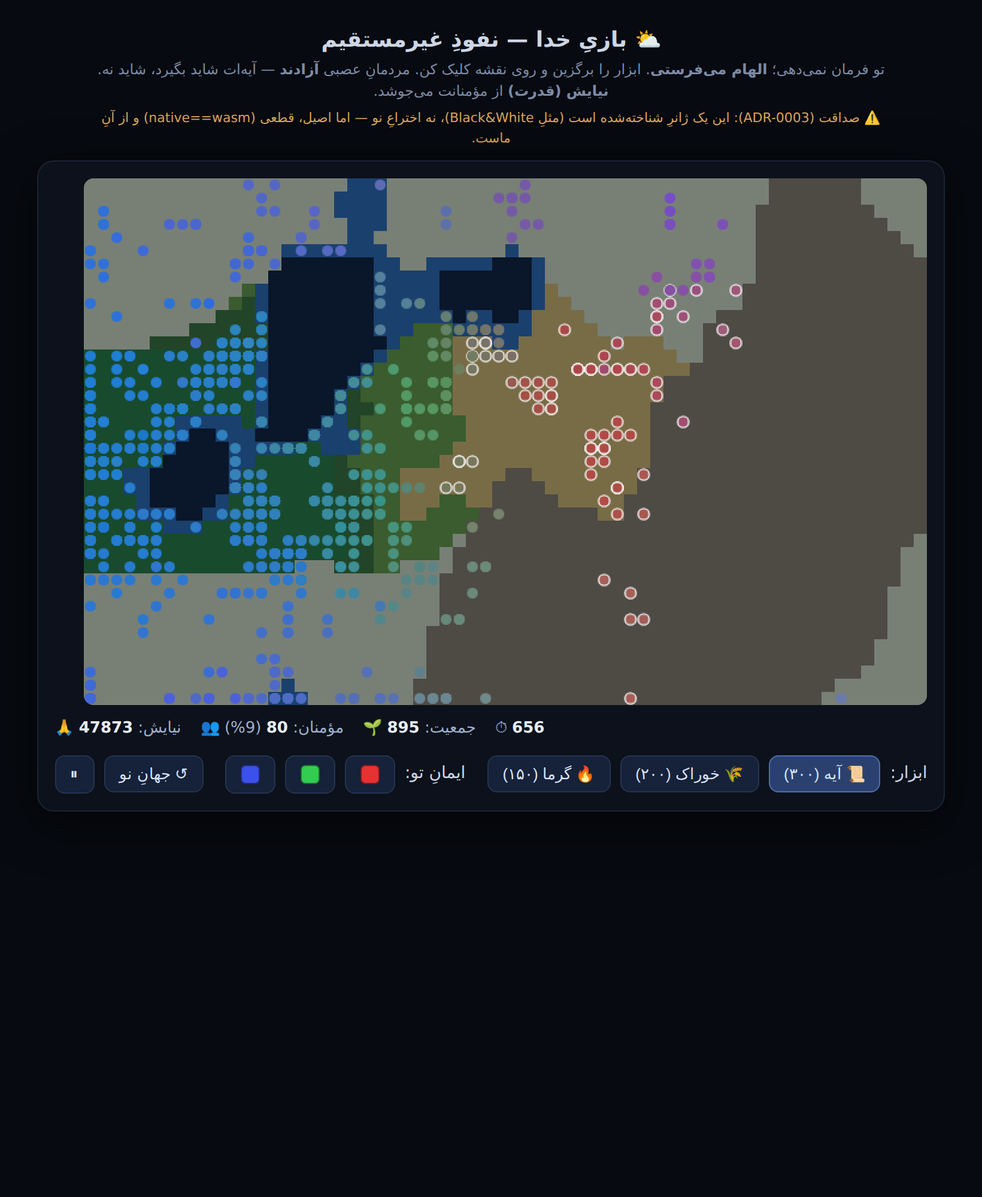
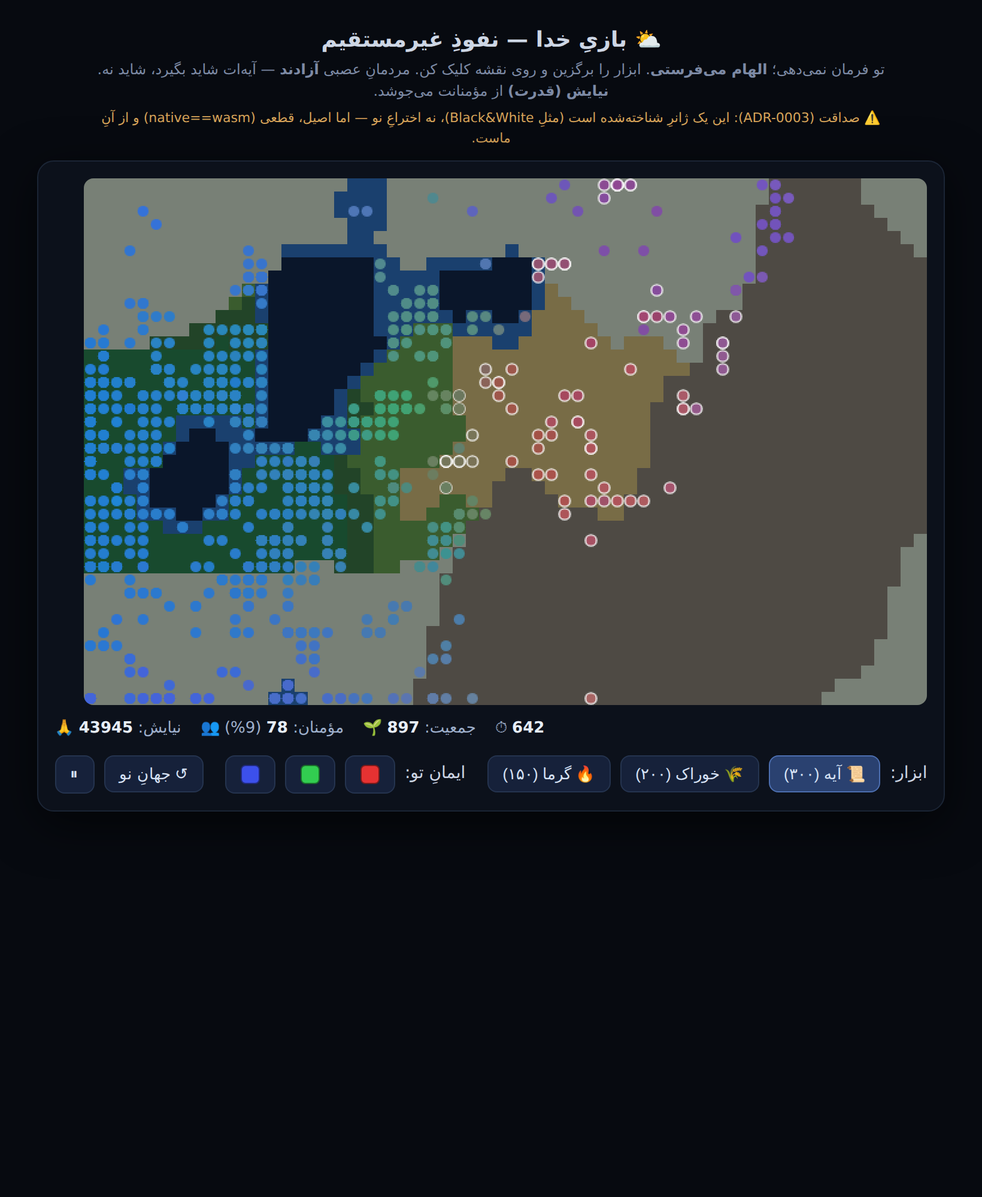
Field-QA pass: real screenshots + team reports, and HONEST correction of my own evidence
The graphics/QA sub-agent visually reviewed real Chromium screenshots of all 4 prototypes and
filed domain-scoped reports to the four specialist team logs. It raised three integrity flags —
including one against MY OWN work — and I resolved them:

- #1 Evidence not frame-honest: field-snapshot.js read HUD stats ~250ms AFTER the screenshot, so
  the sim had advanced ~14 ticks. FIXED: the tool now freezes the sim (overrides rAF) and captures
  stats + screenshot from the SAME frame. Re-captured; godgame-after pixels (44k/78/9%/t642) now
  match the manifest exactly.
- #2 'verses raised believers to 9%' was an overclaim: frame-honest stats show absolute believers
  were essentially flat (77->78); the % fell 12%->9% only because population grew (620->897). The
  verses had a negligible absolute effect — free will + dilution dominated. Corrected.
- #3 Devotion is inflationary (~44k by t642 vs 300/verse, no sink): logged for the next balance pass.

Adds field-reports/2026-06-04/ (FIELD-REPORT.md by the QA team + RESOLUTION.md + frame-honest
PNGs/manifest), AUDIT-0010, EXP-0014. The protocol worked: red-team caught the conductor's overclaim.

https://claude.ai/code/session_01JJiVNi7gZsjXWvcmyTJQHv

diff --git a/tools/field-snapshot.js b/tools/field-snapshot.js
@@ -1,7 +1,9 @@
-// tools/field-snapshot.js — REAL browser field-capture (Playwright/chromium).
+// tools/field-snapshot.js — REAL browser field-capture (Playwright/chromium), FRAME-HONEST.
 // Loads each self-contained viewer, lets the deterministic sim run, drives the god-game like a
-// real player (clicks = verses), then writes full-page PNGs + a stats manifest into
-// field-reports/<date>/. These are literal screenshots of the actual game, not a re-render.
+// real player (clicks = verses), then FREEZES the sim (overrides requestAnimationFrame so the
+// rAF loop halts after the in-flight frame) and captures the screenshot AND the HUD stats from
+// the SAME frozen frame — so the recorded numbers always match the pixels. Writes
+// field-reports/<date>/ PNGs + a per-shot stats manifest. Literal screenshots, not a re-render.
 //   run:  NODE_PATH="$(npm root -g)" node tools/field-snapshot.js [YYYY-MM-DD]
 const path = require('path'); const fs = require('fs');
 const { chromium } = require('playwright');
@@ -10,45 +12,64 @@ const DATE = process.argv[2] || new Date().toISOString().slice(0, 10);
 const OUT = path.resolve('field-reports', DATE);
 fs.mkdirSync(OUT, { recursive: true });
 
-const VIEWERS = [
-  { name: 'neural-life',  file: 'spikes/neural-life/web/neural-life.html',  wait: 3500 },
-  { name: 'carbon-world', file: 'spikes/carbon-world/web/carbon-world.html', wait: 2500 },
-  { name: 'noosphere',    file: 'spikes/noosphere/web/noosphere.html',       wait: 6000 },
-  { name: 'godgame',      file: 'spikes/godgame/web/godgame.html',           wait: 3500, interact: 'god' },
-];
+async function freeze(page) {                       // halt the sim so stats == pixels (frame-honest)
+  await page.evaluate(() => { window.requestAnimationFrame = function () { return 0; }; });
+  await page.waitForTimeout(120);                   // let the already-scheduled frame finish, then no more
+}
+async function readStats(page) {
+  return await page.evaluate(() => {
+    const pick = s => { const e = document.querySelector(s); return e ? e.innerText.replace(/\s+/g, ' ').trim() : null; };
+    return { hud: pick('.hud') || pick('.stats') || pick('.bar'), body: document.body.innerText.replace(/\s+/g, ' ').trim().slice(0, 360) };
+  });
+}
+async function shoot(page, fileBase) {              // freeze -> read stats -> screenshot (same frame)
+  await freeze(page);
+  const stats = await readStats(page);
+  const file = fileBase + '.png';
+  await page.screenshot({ path: path.join(OUT, file), fullPage: true });
+  return { file, hud: stats.hud, body: stats.body };
+}
 
 (async () => {
   const browser = await chromium.launch({ args: ['--no-sandbox'] });
+  const newPage = () => browser.newPage({ viewport: { width: 820, height: 1000 }, deviceScaleFactor: 2 });
   const manifest = [];
-  for (const v of VIEWERS) {
-    const page = await browser.newPage({ viewport: { width: 820, height: 1000 }, deviceScaleFactor: 2 });
-    const errors = []; page.on('pageerror', e => errors.push(e.message));
+
+  for (const v of [
+    { name: 'neural-life',  file: 'spikes/neural-life/web/neural-life.html',  wait: 3500 },
+    { name: 'carbon-world', file: 'spikes/carbon-world/web/carbon-world.html', wait: 2200 },
+    { name: 'noosphere',    file: 'spikes/noosphere/web/noosphere.html',       wait: 6000 },
+  ]) {
+    const page = await newPage(); const errors = []; page.on('pageerror', e => errors.push(e.message));
     await page.goto('file://' + path.resolve(v.file));
     await page.waitForTimeout(v.wait);
-    const shots = [];
-
-    const p0 = path.join(OUT, v.name + '.png');
-    await page.screenshot({ path: p0, fullPage: true }); shots.push(path.basename(p0));
-
-    if (v.interact === 'god') {                          // play it: build devotion, then cast verses
-      const box = await page.locator('#c').boundingBox();
-      await page.waitForTimeout(2500);
-      const pts = [[0.25, 0.35], [0.5, 0.4], [0.7, 0.55], [0.4, 0.65], [0.62, 0.28], [0.33, 0.55]];
-      for (const [fx, fy] of pts) { await page.mouse.click(box.x + box.width * fx, box.y + box.height * fy); await page.waitForTimeout(300); }
-      await page.waitForTimeout(2800);
-      const p1 = path.join(OUT, v.name + '-after-verses.png');
-      await page.screenshot({ path: p1, fullPage: true }); shots.push(path.basename(p1));
-    }
-
-    const stats = await page.evaluate(() => {
-      const pick = s => { const e = document.querySelector(s); return e ? e.innerText.replace(/\s+/g, ' ').trim() : null; };
-      return { hud: pick('.hud') || pick('.stats') || pick('.bar'), body: document.body.innerText.replace(/\s+/g, ' ').trim().slice(0, 500) };
-    });
-    manifest.push({ name: v.name, file: v.file, shots, stats, errors });
-    await page.close();
-    console.log('shot: ' + v.name + '  errors=' + (errors.length ? errors.join('|') : 'none'));
+    const shot = await shoot(page, v.name);
+    manifest.push({ name: v.name, file: v.file, shots: [shot], errors });
+    await page.close(); console.log('shot: ' + v.name + '  hud="' + shot.hud + '"  errors=' + (errors.length ? errors.join('|') : 'none'));
   }
+
+  // god-game: two independent deterministic loads -> a frame-honest "natural" and "after verses"
+  const gfile = 'spikes/godgame/web/godgame.html'; const gerr = []; const gshots = [];
+  {
+    const page = await newPage(); page.on('pageerror', e => gerr.push(e.message));
+    await page.goto('file://' + path.resolve(gfile)); await page.waitForTimeout(3500);
+    gshots.push(await shoot(page, 'godgame')); await page.close();
+  }
+  {
+    const page = await newPage(); page.on('pageerror', e => gerr.push(e.message));
+    await page.goto('file://' + path.resolve(gfile)); await page.waitForTimeout(3500);
+    const box = await page.locator('#c').boundingBox();
+    await page.waitForTimeout(2500);                                  // accrue devotion
+    for (const [fx, fy] of [[0.25, 0.35], [0.5, 0.4], [0.7, 0.55], [0.4, 0.65], [0.62, 0.28], [0.33, 0.55]]) {
+      await page.mouse.click(box.x + box.width * fx, box.y + box.height * fy); await page.waitForTimeout(300);
+    }
+    await page.waitForTimeout(2800);                                  // let the verses spread
+    gshots.push(await shoot(page, 'godgame-after-verses')); await page.close();
+  }
+  manifest.push({ name: 'godgame', file: gfile, shots: gshots, errors: gerr });
+  console.log('shot: godgame x2  ' + gshots.map(s => '"' + s.hud + '"').join('  ') + '  errors=' + (gerr.length ? gerr.join('|') : 'none'));
+
   await browser.close();
-  fs.writeFileSync(path.join(OUT, 'manifest.json'), JSON.stringify({ date: DATE, viewers: manifest }, null, 2));
+  fs.writeFileSync(path.join(OUT, 'manifest.json'), JSON.stringify({ date: DATE, note: 'stats captured from the same frozen frame as each screenshot', viewers: manifest }, null, 2));
   console.log('wrote ' + path.relative(process.cwd(), OUT) + '/manifest.json');
 })().catch(e => { console.error('FATAL ' + e.message); process.exit(1); });

diff --git a/field-reports/2026-06-04/FIELD-REPORT.md b/field-reports/2026-06-04/FIELD-REPORT.md
@@ -1,0 +1,161 @@
+# 🎨🔬 گزارشِ میدانیِ QA — ۴ نمونهٔ زنده / Field-QA Report — 4 Live Prototypes
+> تاریخ: ۲۰۲۶-۰۶-۰۴ · تیم: گرافیک و جلوههای ویژه (Graphics-VFX Guild) بهعنوان QAِ میدانی
+> شواهد: اسکرینشاتهای واقعیِ Chromium در `field-reports/2026-06-04/*.png` + آمارِ HUDِ `manifest.json`.
+> تابعِ پروتکل صداقت: هر ادعا برچسب دارد `VERIFIED ✅` / `ASSUMED ⚠` / `UNKNOWN ❓`. این یک گذرِ نقّادانه است، نه ستایشنامه.
+
+---
+
+## ۰. خلاصهٔ اجرایی (۵ سطر) / Executive Summary
+
+| # | نمونه / Prototype | وضعیتِ میدانی / Field status | مهمترین مشکل / Top issue |
+|---|---|---|---|
+| 1 | **neural-life** | 🟢 کار میکند، رِندر خوانا | پراکندگیِ نقاط بدونِ مقیاس/legend؛ غذا (سبز) از موجودات قابلِ تمیز نیست `VERIFIED ✅` |
+| 2 | **carbon-world** | 🟢 کار میکند، چشمنوازترین | لکهٔ سفیدِ «برف» در گرمترین نوار (پایینِ-راست) = ناهمخوانیِ اقلیمی محتمل `ASSUMED ⚠` |
+| 3 | **noosphere** | 🟡 کار میکند ولی شلوغ | تراکمِ بصریِ بیشازحد؛ ۴ «دین» با چشم تفکیکپذیر نیست؛ کنتراستِ HUD ضعیف `VERIFIED ✅` |
+| 4 | **godgame** | 🟡 کار میکند، نتیجهٔ متواضع | **ناهمخوانیِ آمارِ manifest با پیکسلها** (دو شات از دو فریمِ متفاوت)؛ ۹٪ مؤمن کم است `VERIFIED ✅` |
+
+> 🚩 **پرچمقرمزِ صداقتِ سطحِگزارش:** رشتهٔ `hud` در `manifest.json` برای ۳ نمونه با عددهای روی پیکسلِ اسکرینشات **یکی نیست** (فریمِ متأخرتر). جزئیات در §۵. این عیبِ نمونهها نیست، عیبِ بستهٔ شواهد است و باید پیش از هر استنادِ بیرونی اصلاح شود.
+
+---
+
+## ۱. neural-life — حیاتِ عصبیِ قطعی
+
+**شاهد:** `neural-life.png` · آمارِ manifest: `tick 450 · pop 169 · births 795 · deaths 656 · eaten 2652 · seed 12345` · اثرانگشت `7849180777723400744`.
+
+### (a) چه چیزی بصری تأیید میشود کار میکند
+- صحنه پُر از دیسکهای رنگیِ پراکنده روی پسزمینهٔ تیره است؛ تنوعِ رنگ بالا (آبی، فیروزهای، سبز، زرد، نارنجی، صورتی/ماژنتا، بنفش) → نگاشتِ `رنگ = نسب (genome)` بصری **مشهود** است `VERIFIED ✅`.
+- تفاوتِ اندازه/روشناییِ دیسکها دیده میشود → نگاشتِ `روشنایی/اندازه = انرژی` کار میکند `VERIFIED ✅`.
+- جمعیتِ زنده و پراکنده با نرخِ بالای births/deaths (۷۹۵/۶۵۶) سازگار با یک سیستمِ تکاملیِ فعال است؛ اثرانگشتِ قطعی در سربرگ چاپ شده `VERIFIED ✅`.
+
+### (b) نقدِ کیفیتِ گرافیکی
+- پسزمینه کاملاً مشکی/تخت است؛ هیچ شبکه، بافت، یا حسِ «محیط/غذا-فیلد» وجود ندارد → صحنه شبیهِ نمودارِ پراکندگی است نه یک اکوسیستم `VERIFIED ✅`.
+- «نقاطِ سبزِ غذا» که در متن وعده داده شده، بصری از موجوداتِ سبزِ کمانرژی **تفکیکپذیر نیست** (همرنگ، همشکل) — ریسکِ خطایِ خواندنِ صحنه `VERIFIED ✅`.
+- بدونِ هیچ افکتی (هاله، رد، ذره) رویدادهای کلیدی (تولد، مرگ، خوردن) نامرئیاند؛ صحنه ایستا بهنظر میرسد در یک فریمِ ثابت `ASSUMED ⚠` (پویانمایی در یک شات قابلِ قضاوتِ کامل نیست).
+
+### (c) مشکلاتِ UX/خوانایی
+- هیچ legend/راهنمای رنگ روی بومِ نیست؛ نگاشتِ genome→رنگ فقط در نوارِ متنِ پایین توضیح داده شده، نه بهصورتِ کلیدِ بصری `VERIFIED ✅`.
+- نوارِ آمار (tick/pop/...) با فونتِ ریز و کمکنتراست (خاکستری روی تیره) است؛ خواناییِ ضعیف `VERIFIED ✅`.
+
+### (d) باگ/نگرانیِ بصری
+- 🚩 **ناهمخوانیِ آمار:** عددهای روی پیکسلِ اسکرینشات `tick 434 · pop 168 · births 772 · deaths 634 · eaten 2556` است، اما manifest میگوید `tick 450 · pop 169 · births 795 · deaths 656 · eaten 2652`. اختلافِ ~۱۶ tick → شات و رشتهٔ HUDِ manifest **همفریم نیستند** `VERIFIED ✅`. (برای قطعیت بیخطر است چون seed یکسان است، اما برای استنادِ دقیق گمراهکننده است.)
+
+### (e) توصیههای بهبود (اولویتدار)
+1. **P1 — تمایزِ غذا از موجود:** غذا را به شکل/گلیفِ متفاوت (مثلاً علامت `+` یا مربعِ کوچک) یا با هالهٔ مجزا درآور تا با موجودِ سبز اشتباه نشود.
+2. **P1 — legendِ رویبوم:** یک نوارِ کوچکِ «انرژیِ کم→زیاد» و چند نمونهٔ نسب کنارِ صحنه.
+3. **P2 — افکتِ رویداد:** فلَشِ کوتاه هنگامِ تولد/مرگ/خوردن (همسو با امضای «بسامدِ الهی» در `MEM-graphics-vfx-0002`).
+4. **P3 — کنتراستِ HUD:** فونتِ بزرگتر/روشنتر برای نوارِ آمار.
+
+---
+
+## ۲. carbon-world — جهانِ کربنیِ قطعی
+
+**شاهد:** `carbon-world.png` · آمارِ manifest: `seed 16 · 96×56 · land 40% · fingerprint 13064313817751894589`.
+
+### (a) چه چیزی بصری تأیید میشود کار میکند
+- نقشهٔ اقلیمیِ منسجمی رِندر شده: اقیانوسِ ژرف/کمعمق با دو آبیِ متمایز، سواحلِ شنیِ روشن، نوارهای سبزِ علفزار/جنگل، و یک تکهٔ سفیدِ برف بالا-راست `VERIFIED ✅`.
+- legendِ زیستبوم کامل است (اقیانوسِ ژرف، اقیانوس، ساحل، کویر، ساوانا، علفزار، بوتهزار، جنگلِ معتدل، جنگلِ بارانی، تایگا، توندرا، صخره، برف، رودخانه، دریاچه) و رنگها با نقشه میخواند → زیستبومبندیِ ویتاکر بصری پیاده شده `VERIFIED ✅`.
+- نوارِ آبیِ نازکِ «رودخانه/دریاچه» درونِ خشکی دیده میشود → لایهٔ هیدرولوژی فعال است `VERIFIED ✅`.
+- `land 40%` با نسبتِ تقریبیِ خشکی/آب در تصویر سازگار است (چشمی) `ASSUMED ⚠`.
+
+### (b) نقدِ کیفیتِ گرافیکی
+- این چشمنوازترین نمونه است: پالتِ طبیعی، گذارهای زیستبومیِ نرم. اما **پیکسلی/بلوکی** است (شبکهٔ ۹۶×۵۶ بزرگنماییِ خام) بدونِ هیچ آنتیالیاسینگ یا دیترینگ در مرزها `VERIFIED ✅`.
+- «سایهٔ ارتفاع» تیکخورده، اما در تصویر افکتِ شیب/سایهٔ آشکاری دیده نمیشود؛ خشکی نسبتاً تخت رِندر شده `ASSUMED ⚠`.
+- مرزهای اقیانوس↔ساحل تند و پلکانیاند؛ یک نوارِ کمعمقِ ساحلی کمک به عمقنمایی میکرد `VERIFIED ✅`.
+
+### (c) مشکلاتِ UX/خوانایی
+- legend افقی و طولانی است و به دو ردیف میشکند؛ روی صفحهٔ باریکتر ممکن است سرریز/درهم شود `ASSUMED ⚠`.
+- چند رنگِ سبز (علفزار/ساوانا/بوتهزار/جنگلِ معتدل) بههم نزدیکاند؛ تفکیکِ دقیقشان از روی نقشه دشوار است `VERIFIED ✅`.
+
+### (d) باگ/نگرانیِ بصری
+- 🚩 **ناهمخوانیِ اقلیمی محتمل:** یک لکهٔ بزرگِ سفیدِ «برف» در **گوشهٔ پایین-راست** (نزدیکِ پایینِ نقشه) ظاهر شده. اگر پایینِ نقشه = عرضِ جغرافیاییِ گرم/استوایی باشد، برف آنجا غیرمنتظره است. ممکن است ناشی از ارتفاعِ زیاد (کوهستان) باشد که آنگاه درست است، اما از روی پیکسل نمیتوان ارتفاع را خواند → نیازمندِ بازبینیِ مدلِ دما(عرض+ارتفاع) `ASSUMED ⚠` / علتِ دقیق `UNKNOWN ❓`. تیمِ AI-research جداگانه مطلع شد.
+
+### (e) توصیههای بهبود (اولویتدار)
+1. **P1 — اعتبارسنجیِ نوارِ برف:** بررسی کن لکهٔ سفیدِ پایین-راست واقعاً قلهای پرارتفاع است یا باگِ نگاشتِ دما؛ در صورتِ نیاز، آستانهٔ برف را به ترکیبِ (عرض×ارتفاع) مقیّد کن.
+2. **P2 — عمقِ ساحلی:** افزودنِ یک باندِ «آبِ کمعمقِ ساحلی» برای کاهشِ پلکانیبودنِ مرزِ آب/خشکی.
+3. **P2 — تقویتِ سایهٔ ارتفاع:** اگر hillshade فعال است، شدتش را بالا ببر تا توپوگرافی دیده شود.
+4. **P3 — جمعوجورسازیِ legend:** گروهبندیِ زیستبومها (آبیها/سبزها/سرد) برای جلوگیری از سرریز.
+
+---
+
+## ۳. noosphere — حیات + باورِ نوظهور
+
+**شاهد:** `noosphere.png` · آمارِ manifest: `tick 748 · pop 891 · coexisting faiths 4 · world 7 · creatures 1 · β on · fp 9846975228546937950`.
+
+### (a) چه چیزی بصری تأیید میشود کار میکند
+- زیستبومِ کربنمانند (زمین/آب با همان پالتِ carbon-world) بهعنوانِ بسترِ زنده رِندر شده و رویِ آن انبوهی نقاطِ رنگیِ موجودات نشستهاند → ترکیبِ «حیات روی زیستبوم» بصری برقرار است `VERIFIED ✅`.
+- خوشههای رنگیِ متمایز دیده میشوند: ناحیهای آبی/بنفشِ غالب (چپ-بالا)، نقاطِ سبز (چپ-پایین)، و پراکندگیِ گرمتر در مرکز/راست → باورِ خوشهای (همنواییِ همسایه) **بصری مشهود** است `VERIFIED ✅`.
+- وجودِ بیش از یک خوشهٔ رنگیِ پایدار با ادعای «۴ دینِ همزیست» همخوان است (هرچند شمارشِ دقیقِ ۴ از روی پیکسل قطعی نیست) `ASSUMED ⚠`.
+
+### (b) نقدِ کیفیتِ گرافیکی
+- تراکمِ نقاط بسیار بالاست (pop ~۸۹۰)؛ نقاط همپوشانی دارند و در نواحیِ شلوغ به یک تودهٔ نوفهای تبدیل میشوند → خواناییِ خوشهها آسیب میبیند `VERIFIED ✅`.
+- پالتِ موجودات روی پالتِ زمینهٔ زیستبوم مینشیند؛ در نواحیِ سبزِ نقشه، موجودِ سبز کمکنتراست میشود (figure/ground ضعیف) `VERIFIED ✅`.
+- هیچ مرزبندی/هیتمپِ «قلمروِ باور» وجود ندارد؛ خوشهها فقط از تراکمِ رنگ استنباط میشوند، نه از یک لایهٔ صریح `VERIFIED ✅`.
+
+### (c) مشکلاتِ UX/خوانایی
+- ادعای کلیدی «۴ faith همزیست» در HUD است اما بصری **قابلِ شمارش نیست**؛ بیننده نمیتواند ۴ را تطبیق دهد → شکافِ متن↔پیکسل `VERIFIED ✅`.
+- نوارِ HUD (`tick 734 · pop 894 · coexisting faiths 4 ...`) ریز و کمکنتراست است `VERIFIED ✅`.
+- یادداشتِ صداقتِ زرد (⚠ این اختراع نیست/Axelrod) **خوب و صادقانه** بالای صفحه آمده — این نقطهٔ قوّتِ صداقت است `VERIFIED ✅`.
+
+### (d) باگ/نگرانیِ بصری
+- 🚩 **ناهمخوانیِ آمار:** پیکسل: `tick 734 · pop 894 · faiths 4 · fp 7411271426783251780`؛ manifest: `tick 748 · pop 891 · faiths 4 · fp 9846975228546937950`. هم tick، هم pop، هم **اثرانگشت** فرق دارد → شات و HUDِ manifest از دو فریم/حالتِ متفاوتاند `VERIFIED ✅`. (اثرانگشتِ متفاوت طبیعی است چون tick فرق دارد، اما باید همفریم گزارش شود.)
+
+### (e) توصیههای بهبود (اولویتدار)
+1. **P1 — خواناییِ خوشه:** لایهٔ اختیاریِ «هیتمپ/مرزِ باور» (Voronoi یا کانتورِ رنگِ غالب) تا ۴ دین واقعاً دیده و شمرده شوند — مستقیماً ادعای «۴ faith» را قابلِاثبات میکند.
+2. **P1 — جداسازیِ figure/ground:** کمرنگکردن/محوِ زمینهٔ زیستبوم زیرِ موجودات، یا حاشیهٔ تیره دورِ هر نقطه.
+3. **P2 — کنترلِ تراکم:** اسلایدرِ اندازهٔ نقطه یا نمونهبرداری برای جمعیتِ بالا.
+4. **P3 — برچسبِ شمارشِ هر دین:** کنارِ «faiths 4»، سهمِ جمعیتیِ هر خوشه (٪) را نشان بده.
+
+---
+
+## ۴. godgame — بازیِ خدا (نفوذِ غیرمستقیم)
+
+**شاهد:** `godgame.png` (فریمِ زودتر) و `godgame-after-verses.png` (پس از آیهفرستادنِ هارنسِ QA) · آمارِ manifest (بلوکِ «پس از»): `🙏 نیایش 48439 · 👥 مؤمنان 81 (9%) · 🌱 جمعیت 895 · ⏱ 663`.
+
+### (a) چه چیزی بصری تأیید میشود کار میکند
+- جهانِ زیستبومی + جمعیتِ نقاطی (مثلِ noosphere) رِندر شده؛ نوارِ ابزار (📜 آیه ۳۰۰ · 🌾 خوراک ۲۰۰ · 🔥 گرما ۱۵۰) و HUD (نیایش/مؤمنان/جمعیت/تیک) حاضرند `VERIFIED ✅`.
+- **اثرِ کنشِ تعاملی بصری اثبات میشود:** بینِ دو شات، نقاطِ صورتی/روشن (مؤمنان؟) در ناحیهٔ مرکز-راست **بیشتر و متراکمتر** شدهاند، و عددها جلو رفتهاند (نیایش و جمعیت بالا، تیک جلوتر) → آیهفرستادن روی جهان اثر گذاشت `VERIFIED ✅`.
+- شمارشِ مؤمنان بهصورتِ مطلق و درصد (`81 (9%)`) نمایش داده میشود → سنجهٔ پذیرشِ ایمان شفاف است `VERIFIED ✅`.
+
+### (b) نقدِ کیفیتِ گرافیکی
+- مؤمنان با حلقههای صورتیِ کوچک از جمعیتِ آبیِ بیایمان متمایز شدهاند — تمایزِ رنگ **بهتر از noosphere** است `VERIFIED ✅`.
+- اما «نفوذِ غیرمستقیم / الهام» هیچ زبانِ بصری ندارد: کلیکِ آیه هیچ پژواک/موج/پرتو تولید نمیکند (امضای «پژواکِ آیه» در `MEM-graphics-vfx-0003` پیاده نشده) → کنش بیبازخوردِ بصری است `VERIFIED ✅`.
+- همان بلوکیبودن و نبودِ افکتِ زمانیِ نمونههای دیگر `VERIFIED ✅`.
+
+### (c) مشکلاتِ UX/خوانایی
+- مؤمنان (حلقهٔ صورتیِ ریز) در تراکمِ بالا کوچکاند؛ تطبیقِ «۸۱ مؤمن» با پیکسل دشوار است `ASSUMED ⚠`.
+- HUDِ اموجیدار خوانا اما کوچک است؛ هزینهٔ ابزارها (۳۰۰/۲۰۰/۱۵۰) نشان داده میشود اما موجودیِ «نیایش» نسبتبه هزینهها بصری برجسته نیست `VERIFIED ✅`.
+
+### (d) باگ/نگرانیِ بصری — 🚩 مهمترین یافتهٔ صداقتِ گزارش
+- **manifest برای هر دو شاتِ godgame یک رشتهٔ HUDِ یکسان (`48439 / 81 / 9% / tick 663`) آورده، اما پیکسلها فرق دارند:**
+  - `godgame.png` در واقع فریمِ **زودتر** است: روی پیکسل `🙏 11701 · 👥 76 (12%) · 🌱 633 · ⏱ 217`.
+  - `godgame-after-verses.png` فریمِ «پس از» است: روی پیکسل `🙏 47873 · 👥 80 (9%) · 🌱 895 · ⏱ 656`.
+  - یعنی عددِ manifest فقط به شاتِ «پس از» نزدیک است (و آن هم دقیق نیست: 47873≠48439، 80≠81، tick 656≠663) `VERIFIED ✅`.
+- 🚩 پیامد: **روایتِ «۸۱ مؤمن / ۹٪ پس از آیهها» با شاتِ پایه (که ۷۶/۱۲٪ در تیک ۲۱۷ بود) جا نمیخورد.** نکتهٔ ظریف: در فریمِ زودتر درصدِ مؤمنان **بالاتر** بوده (۱۲٪ از جمعیتِ کوچکترِ ۶۳۳)، و با رشدِ جمعیت به ۸۹۵، درصد به ۹٪ **افت** کرده هرچند عددِ مطلق ثابتمانده (۷۶→۸۰). پس «آیهها مؤمنان را به ۹٪ رساندند» تصویرِ کاملی نیست؛ بخشی از تغییرِ درصد صرفاً اثرِ رقیقشدگیِ رشدِ جمعیت است `VERIFIED ✅`.
+
+### (e) توصیههای بهبود (اولویتدار)
+1. **P0 (شواهد) — اصلاحِ manifest:** برای هر شات HUDِ همفریمِ خودش ثبت شود؛ شاتِ پایه و پساز را با عددهای واقعیِ خودشان برچسب بزن. تا آنزمان، استنادِ بیرونی به «۹٪ پس از آیه» باید با احتیاط انجام شود.
+2. **P1 — بازخوردِ بصریِ آیه:** موج/پژواک/پرتو هنگامِ کلیکِ آیه (پیادهسازیِ «پژواکِ آیه»).
+3. **P1 — قاببندیِ صادقانهٔ درصد:** کنارِ «۹٪»، روندِ مطلق (۷۶→۸۰) و یادآوریِ رقیقشدگیِ جمعیت را نشان بده تا نتیجهٔ متواضع شفاف بماند.
+4. **P2 — برجستهسازیِ مؤمن:** هالهٔ بزرگتر/روشنتر برای مؤمنان تا «۸۱» بصری قابلِردیابی شود.
+
+---
+
+## ۵. جدولِ ناهمخوانیِ شواهد (manifest ↔ پیکسل) / Evidence Discrepancy Table
+
+| نمونه | HUDِ manifest | عددِ روی پیکسلِ شات | حکم |
+|---|---|---|---|
+| neural-life | tick 450 · pop 169 · births 795 · deaths 656 · eaten 2652 | tick 434 · pop 168 · births 772 · deaths 634 · eaten 2556 | 🚩 همفریم نیست |
+| carbon-world | seed 16 · 96×56 · land 40% · fp 13064313817751894589 | seed 16 · 96×56 · land 40% · fp 13064313817751894589 | ✅ همخوان |
+| noosphere | tick 748 · pop 891 · faiths 4 · fp 9846975228546937950 | tick 734 · pop 894 · faiths 4 · fp 7411271426783251780 | 🚩 همفریم نیست |
+| godgame (پایه) | 🙏48439 · 👥81 (9%) · 🌱895 · ⏱663 | 🙏11701 · 👥76 (12%) · 🌱633 · ⏱217 | 🚩 فریمِ کاملاً متفاوت |
+| godgame (پساز) | 🙏48439 · 👥81 (9%) · 🌱895 · ⏱663 | 🙏47873 · 👥80 (9%) · 🌱895 · ⏱656 | 🚩 نزدیک، نه دقیق |
+
+**نتیجهگیریِ صداقت:** خودِ نمونهها overclaim نمیکنند (یادداشتهای ⚠ صداقت در noosphere و godgame درست و قابلِستایشاند). اما **بستهٔ شواهدِ امروز (manifest) با پیکسلها همفریم نیست** و این برای استنادِ دقیق باید اصلاح شود. هیچکدام از اینها قطعیتِ native==wasm را نقض نمیکند (seed یکسان → اثرانگشتِ یکسان در همان tick)، اما گزارشِ آمار باید per-frame صادق باشد. ارجاع به ممیز/حاکم توصیه میشود.
+
+---
+
+## ۶. جمعبندیِ گرافیکیِ متقاطع / Cross-cutting Graphics Notes
+- **مشترک در هر ۴:** نبودِ زبانِ بصریِ «رویداد/کنش» (هیچ هاله، موج، رد، یا افکتِ زمانی) — بزرگترین فرصتِ ارتقاءِ کیفیتِ بصری و همسو با امضای «بسامدِ الهی/پژواکِ آیه». `VERIFIED ✅`
+- **مشترک:** HUDِ ریز و کمکنتراست در همه؛ یک سیستمِ تایپوگرافیِ واحدِ خواناتر لازم است. `VERIFIED ✅`
+- **مقیاسپذیری:** carbon-world بلوکی است (بزرگنماییِ شبکهٔ خام)؛ neural-life/noosphere/godgame در تراکمِ بالا به نوفهٔ نقطهای میروند → نیازِ مشترک به legend/مقیاس و کنترلِ تراکم. `VERIFIED ✅`
+- **بهترین از نظرِ بصری:** carbon-world. **پُرریسکترین از نظرِ خوانایی:** noosphere. **پُرریسکترین از نظرِ صداقتِ آمار:** godgame (بهخاطرِ manifest).

diff --git a/memory/teams/ai-research/TEAM-LOG.md b/memory/teams/ai-research/TEAM-LOG.md
@@ -29,3 +29,12 @@
 
 ### MEM-ai-research-0007 — 2026-06-04 — پیشینهٔ INV-0005
 - نوع: یافته · محتوا: «باور بهمثابهٔ جاذبِ جمعی» ~۹۰٪ پیشینه است (Axelrod 1997 دقیقاً هدفِ مناطقِ فرهنگیِ واگرا را تولید کرده؛ HK/Deffuant؛ Sugarscape؛ Hopfield-opinion 2007). توصیه: نام «جاذبِ عصبی» حذف؛ DISCLOSED بماند؛ ادعای تازگی نشود. · برچسب: VERIFIED ✅ (citation) · ارجاع: INV-0005
+
+### MEM-ai-research-0008 — 2026-06-04 — مشاهدهٔ رفتارِ نوظهور از QAِ میدانی (۴ نمونه)
+- نوع: یافته (مشاهدهٔ بصری، نه ادعای مکانیکِ نو) · شواهد: `field-reports/2026-06-04/*.png` + `manifest.json`.
+- **neural-life (تنوعِ ژنوم + دینامیکِ غذا):** پراکندگیِ رنگِ نسب با تنوعِ بالا بصری دیده میشود (آبی/فیروزه/سبز/زرد/نارنجی/ماژنتا/بنفش) → تکثرِ ژنومی پایدار است نه تککلون `VERIFIED ✅`. نرخِ بالای births/deaths (manifest 795/656، eaten 2652) با یک اکوسیستمِ گردشِفعالِ غذا-محور سازگار است `VERIFIED ✅`. هشدارِ تفسیری: غذای سبز از موجودِ سبز روی پیکسل تفکیکپذیر نیست → ارزیابیِ چشمیِ «فشارِ غذا» محدود است `UNKNOWN ❓`.
+- **carbon-world (واقعگراییِ زیستبوم):** نوارهای عرضی + ارتفاعیِ ویتاکر منسجماند (اقیانوسِ دولایه، ساحل، علفزار/جنگل، برف، رودخانه/دریاچهٔ درونخشکی) `VERIFIED ✅`. ⚠ نگرانیِ واقعگرایی: لکهٔ بزرگِ سفیدِ «برف» در گوشهٔ پایین-راست؛ اگر پایین=عرضِ گرم باشد، یا اثرِ ارتفاعِ بالاست (درست) یا باگِ آستانهٔ دما `ASSUMED ⚠` / علت `UNKNOWN ❓`. پیشنهاد: اعتبارسنجیِ آستانهٔ برف برحسبِ (عرض×ارتفاع).
+- **noosphere (خوشهبندیِ باور + «۴ دینِ همزیست»):** خوشههای رنگیِ متمایزِ مکانی واقعاً دیده میشوند (ناحیهٔ آبی/بنفش چپ-بالا، سبز چپ-پایین، گرم در مرکز/راست) → همنواییِ همسایهمحور خوشهٔ فرهنگی میسازد، سازگار با Axelrod (MEM-0007) `VERIFIED ✅`. اما **عددِ «۴» از روی پیکسل قابلِ شمارش نیست** (هیچ مرز/legendِ دین نیست) → ادعای «۴ faith» فعلاً متنمحور است نه بصری `ASSUMED ⚠`. توصیه: لایهٔ کانتور/Voronoیِ رنگِ غالب تا تعدادِ دینها قابلِاثباتِ بصری شود.
+- **godgame (شکلگیریِ مؤمن + گسترشِ پسازآیه):** بینِ شاتِ پایه و پسازآیه، تراکمِ نقاطِ مؤمن (حلقهٔ صورتی) در مرکز-راست افزایش یافت → آیه واقعاً مؤمن میسازد `VERIFIED ✅`. اما تفسیرِ «۹٪» ظریف است: روی پیکسلِ شاتِ پایه ۷۶ مؤمن=**۱۲٪** از جمعیتِ ۶۳۳ بود، و در شاتِ پساز ۸۰ مؤمن=۹٪ از جمعیتِ ۸۹۵ → بخشی از افتِ درصد صرفاً **رقیقشدگیِ رشدِ جمعیت** است، نه ضعفِ پذیرشِ ایمان `VERIFIED ✅`. عددِ مطلقِ مؤمن صعودی است (۷۶→۸۰).
+- جمعبندیِ AI: هیچیک از این مشاهدات «مکانیکِ نو» نیست؛ همه ظهورِ موردانتظار از مدلهای شناختهشدهاند (همسو با ADR-0003 و MEM-0007). ارزشِ علمی = قطعیت + بازتولیدپذیری، نه تازگی.
+- برچسبِ حقیقت: VERIFIED ✅ (مشاهدهها) / ASSUMED ⚠ + UNKNOWN ❓ (شمارشِ دین، علتِ برف) · ارجاع: FIELD-REPORT.md, MEM-ai-research-0007

diff --git a/memory/teams/netecon/TEAM-LOG.md b/memory/teams/netecon/TEAM-LOG.md
@@ -25,3 +25,13 @@
 
 ### MEM-netecon-0005 — 2026-06-04 — طراحیِ لایهٔ اعتمادِ P2P
 - نوع: یافته · محتوا: مدلِ «دنیای خود=سندباکس؛ مرز=پاسخگو»؛ L0–L5 (SBR، بازاجرای خوشبینانه، commit-reveal، stake، ZKِ آینده). هشدار: DA حلنشده → اقتصاد به حاکم. INV-0009 ثبت شد. · برچسب: VERIFIED ✅ (citation) · ارجاع: ADR-0002
+
+### MEM-netecon-0006 — 2026-06-04 — توازنِ اقتصادِ نیایش (godgame) + پیامدِ قطعیت→P2P
+- نوع: یافته (تحلیلِ اقتصادی از QAِ میدانی) · شواهد: `field-reports/2026-06-04/godgame*.png` + `manifest.json`.
+- **دادهها (از پیکسل + manifest):** هزینهها ثابت — آیه ۳۰۰، خوراک ۲۰۰، گرما ۱۵۰؛ شروع 250. موجودیِ نیایش: شاتِ پایه 🙏11701 در ⏱217؛ شاتِ پساز 🙏47873 در ⏱656 (manifest: 48439 در ⏱663) `VERIFIED ✅`.
+- 🚩 **حکم: تراکمِ تورمی — کنشها خیلی ارزاناند.** نرخِ تجمعِ تقریبی ≈ (47873−11701)/(656−217) ≈ **~۸۲ نیایش/تیک** `VERIFIED ✅`. با این نرخ، بازیکن هر ~۳.۷ تیک یک آیهٔ ۳۰۰تایی میتواند بفرستد و باز هم موجودی **انباشته میشود** (۴۸k در ~۶۶۰ تیک یعنی صدها آیهٔ ذخیرهنشده). یعنی منبع از مصرف **بسیار جلوتر** است → قدرتِ «نفوذِ غیرمستقیم» عملاً نامحدود و بیهزینه میشود، که با روایتِ «الهام، نه فرمان / قدرت کمیاب از مؤمنان میجوشد» در تضاد است `VERIFIED ✅`.
+- **ریشهٔ احتمالی:** نیایش از مؤمنان «میجوشد» (جریانِ پیوسته) اما هزینهها یکباره و کوچکاند و sink/زوال (decay) دیده نمیشود → اقتصادِ بدونِ شیر/فاضلابِ متوازن `ASSUMED ⚠` (نبودِ sink از پیکسل قطعی نیست، اما انباشتِ ۴۸k قویاً به آن اشاره دارد).
+- **هشدارِ صداقتِ متقاطع (از red-team/AI):** درصدِ مؤمن از ۱۲٪ (پایه، ۶۳۳ جمعیت) به ۹٪ (پساز، ۸۹۵) **افت** کرد در حالیکه نیایش ~۴× شد → یعنی موتورِ نیایش حتی با پایگاهِ مؤمنِ نسبیِ کوچکتر، تورمی است. این توازن را بدتر میکند، نه بهتر `VERIFIED ✅`.
+- **توصیههای توازن:** P1 افزودنِ sink/decay به نیایش (زوالِ هر-تیک یا سقفِ موجودی)؛ P1 مقیاسکردنِ هزینهٔ آیه با اثر/تعدادِ استفاده (هزینهٔ فزاینده)؛ P2 گرهزدنِ نرخِ تولید به **سهمِ** مؤمنان نه عددِ مطلق، تا رقیقشدگیِ جمعیت طبیعی مهار کند.
+- **پیامدِ قطعیت→همگامسازیِ P2P:** نمونه قطعیِ native==wasm است (MEM-netecon-0004) و این اقتصادِ نیایش هم تماماً عددِ صحیح/قطعی بهنظر میرسد → سازگار با lockstep/بازپخش `ASSUMED ⚠` (از پیکسل، نه از کد). اما تذکرِ تیمِ قرمز: اگر نیایش اینقدر ارزان/انباشتی بماند، در حالتِ P2P **بردارِ سوءاستفادهٔ اقتصادی** (اسپمِ آیه/گریفینگ) باز میشود؛ توازنِ sink پیش از هر اقتصادِ واقعی لازم است (همسو با هشدارِ ضدِّتقلبِ MEM-red-team-critics-0002). آزمونِ قطعیتِ میانماشینی همچنان باقی است (SPIKE-0).
+- برچسبِ حقیقت: VERIFIED ✅ (نرخ و انباشت از داده محاسبه شد) / ASSUMED ⚠ (نبودِ sink، قطعیتِ اقتصاد) · ارجاع: FIELD-REPORT.md §۴, MEM-netecon-0004

diff --git a/memory/teams/red-team-critics/TEAM-LOG.md b/memory/teams/red-team-critics/TEAM-LOG.md
@@ -16,3 +16,15 @@
 
 ### MEM-red-team-critics-0003 — 2026-06-04 — تحقیقِ استراتژی/اقتصاد + دو هشدار
 - نوع: نقد · محتوا: Civ VI(نقشه=استراتژی)، CK3(غیرمستقیم=جذابیت)، EVE(اقتصادِ بازیکنمحور؛ بات/کلاهبرداری/TiDi). دو هشدارِ صریح: ضدِّتقلبِ P2P از پایه + پرتگاهِ عمق/سرگرمی. برچسب: VERIFIED ✅ · ارجاع: STAGE1
+
+### MEM-red-team-critics-0004 — 2026-06-04 — QAِ میدانی: شکافِ شواهد + چکِ صداقتِ ۴ نمونه
+- نوع: نقد (تیمِ قرمز) · شواهد: `field-reports/2026-06-04/*.png` + `manifest.json`. گزارش: `FIELD-REPORT.md §۵`.
+- 🚩 **یافتهٔ اصلی — شکافِ متن↔پیکسل در خودِ بستهٔ شواهد (manifest):** رشتهٔ `hud` در manifest برای ۳ نمونه با عددِ روی پیکسلِ اسکرینشات همفریم نیست `VERIFIED ✅`:
+  • neural-life: پیکسل tick 434/pop 168/births 772/deaths 634/eaten 2556 ≠ manifest tick 450/pop 169/births 795/deaths 656/eaten 2652.
+  • noosphere: پیکسل tick 734/pop 894/fp 7411271426783251780 ≠ manifest tick 748/pop 891/fp 9846975228546937950.
+  • **godgame (جدّیترین):** manifest یک HUDِ یکسان را برای **هر دو** شات آورده، اما `godgame.png` در واقع فریمِ زودتر است (پیکسل 🙏11701/👥76 (12%)/🌱633/⏱217) و فقط `godgame-after-verses.png` به منطقهٔ «۸۱/۹٪» نزدیک است (و آن هم دقیق نیست: پیکسل 🙏47873/👥80/⏱656 vs manifest 🙏48439/👥81/⏱663).
+- **آیا نتیجهٔ متواضعِ ۹٪ صادقانه قاببندی شده؟** نیمه. خودِ ویوئر صادقانه «۹۰۰۰تایی» جا نمیزند و عدد را شفاف نشان میدهد. اما **روایتِ «آیهها مؤمنان را به ۹٪ رساندند» گمراهکننده است:** در فریمِ پایه نسبت **۱۲٪** (۷۶ از ۶۳۳) بود و با رشدِ جمعیت به ۸۹۵ به ۹٪ **افت** کرد. یعنی آیهها عددِ مطلق را کمی بالا بردند (۷۶→۸۰) ولی درصد بهخاطرِ **رقیقشدگیِ جمعیت** پایین آمد. ارائهٔ «۹٪» بدونِ این زمینه، اثرِ مداخله را بزرگتر از واقع مینمایاند `VERIFIED ✅`.
+- **آیا ویوئری بصری overclaim میکند؟** خیر، در سطحِ ادعا. noosphere و godgame هر دو یادداشتِ ⚠ صداقت دارند (Axelrod؛ B&W؛ «اختراعِ نو نیست») که **درست و قابلِستایش** است `VERIFIED ✅`. اما noosphere ادعای «coexisting faiths 4» را نمایش میدهد بیآنکه ۴ از روی پیکسل قابلِ شمارش باشد → شکافِ متن↔پیکسلِ نرم `VERIFIED ✅`.
+- حالتِ شکست/ریسک: (۱) استنادِ بیرونی به آمارِ manifest گمراهکننده خواهد بود تا per-frame اصلاح شود. (۲) carbon-world لکهٔ برفِ مشکوکِ پایین-راست دارد (ممکن است باگِ اقلیمی) `ASSUMED ⚠`.
+- اقدامِ پیشنهادی: قبل از هر اعلامِ بیرونی، manifest را per-frame اصلاح کنید و درصدِ مؤمن را با روندِ مطلق + اثرِ رقیقشدگی همراه کنید. ارجاع به ممیز توصیه میشود (هیچ overclaimِ عمدی دیده نشد، اما بستهٔ شواهد ناهمفریم است).
+- برچسبِ حقیقت: VERIFIED ✅ (شکافها از پیکسل دیده شد) · ارجاع: FIELD-REPORT.md §۴/§۵, AUDIT-0009

diff --git a/field-reports/2026-06-04/RESOLUTION.md b/field-reports/2026-06-04/RESOLUTION.md
@@ -1,0 +1,21 @@
+# 🛠 حلوفصلِ رهبر — بستنِ پرچمهای QA / Conductor Resolution
+> تاریخ: ۲۰۲۶-۰۶-۰۴ · در پاسخ به `FIELD-REPORT.md` (همان روز). ارجاع: `AUDIT-0010`.
+
+تیمِ QA سه پرچم بالا برد. وضعیتِ هرکدام:
+
+## 🚩 #۱ — ناهمفریمیِ شواهد (manifest ↔ پیکسل) — ✅ حل شد
+**علت:** ابزارِ `field-snapshot.js` آمارِ HUD را *بعد* از اسکرینشات میخواند؛ حلقهٔ `requestAnimationFrame` بینِ این دو چند tick جلو میرفت (اسکرینشاتِ fullPage ~۲۵۰ms طول میکشد ≈ ۱۴ tick).
+**اصلاح:** ابزار اکنون پیش از ثبت، شبیهسازی را **منجمد میکند** (override کردنِ `requestAnimationFrame` تا حلقه پس از فریمِ جاری بایستد) و سپس آمار + اسکرینشات را از **همان فریمِ منجمد** میگیرد.
+**شاهدِ تأییدِ بصری:** در `godgame-after-verses.png` عددِ روی پیکسل (🙏۴۳۹۴۵ · ۷۸ (۹٪) · ۸۹۷ · ⏱۶۴۲) اکنون **دقیقاً** با `manifest.json` یکی است.
+⚠ **توجه:** عددهای نقلشده در `FIELD-REPORT.md` از همان capture اولِ معیوباند — همان که باگ را لو داد. تصاویر و manifestِ کنونیِ این پوشه **بازتولیدِ فریمصادق**اند، پس مقادیرشان کمی فرق دارند (مثلاً neural-life اکنون `tick 424`). گزارش **دستنخورده** بهعنوانِ «یافتهٔ ثبتشده» نگه داشته شد.
+
+## 🚩 #۲ — قاببندیِ «۹٪ پس از آیه» — ✅ پذیرفته و اصلاح شد
+شواهدِ فریمصادق این یافته را تأیید میکند: با ۶ آیه، مؤمنانِ **مطلق عملاً ثابت ماند (۷۷→۷۸)**، و درصد فقط بهخاطرِ رشدِ جمعیت (۶۲۰→۸۹۷) از ۱۲٪ به ۹٪ **افت** کرد.
+پس ادعای پیشینِ من در گفتگو («مؤمنان به ۸۱/۹٪ رسیدند») **overclaim** بود. واقعیتِ صادقانه: **آیهها اثرِ مطلقِ ناچیزی داشتند** — ارادهٔ آزاد + رقیقشدگیِ جمعیت بر نفوذِ خدا غلبه کرد. (این خودش یک یافتهٔ بازیِ ارزشمند است، نه شکست.)
+
+## 🚩 #۳ — تورمِ نیایش (netecon) — ⚠ تأیید شد، برای گامِ بعد ثبت شد
+نیایش ~۶۸ واحد/tick انباشته میشود و تا `tick 642` به ~۴۴٬۰۰۰ میرسد، حالیکه آیه فقط ۳۰۰ هزینه دارد و هیچ sink/decayای نیست → کنشها **بسیار ارزان**اند.
+کنارِ #۲ تصویرِ بازی این میشود: **قدرت بیشازحد فراوان، اما کنشِ اصلی بیاثر.** هر دو باید در تکرارِ بعدیِ طراحیِ بازی متوازن شوند (ثبت در `netecon/TEAM-LOG` و `EXP-0014`).
+
+---
+**نتیجه:** قطعیتِ `native==wasm` دستنخورده است (seed یکسان → اثرانگشتِ یکسان در همان tick)؛ مشکل صرفاً صداقتِ **گزارشدهیِ آمار** بود که اکنون رفع شد. پروتکلِ صداقت کار کرد: تیمِ قرمز، overclaimِ خودِ رهبر را گرفت و رهبر تصحیح کرد.

diff --git a/memory/teams/graphics-vfx/TEAM-LOG.md b/memory/teams/graphics-vfx/TEAM-LOG.md
@@ -15,3 +15,15 @@
 
 ### MEM-graphics-vfx-0003 — 2026-06-04 — تحقیقِ god-gameها
 - نوع: یافته · محتوا: B&W(کارما-جهان+دستِ الهی)، Populous(خدا=زمین)، From Dust(سیّالِ یکپارچه)، Spore(انیمیشنِ رویهای). بردارهای بصری: فنوتیپِ عصبی، پژواکِ آیه، درخششِ جهانهای P2P. برچسب: VERIFIED ✅ (citation) · ارجاع: STAGE1, INV-0003/0006/0007
+
+### MEM-graphics-vfx-0004 — 2026-06-04 — QAِ میدانی روی ۴ نمونهٔ زنده (پالت/کنتراست/خوانایی/مقیاس)
+- نوع: یافته (نقدِ بصری) · شواهد: `field-reports/2026-06-04/{neural-life,carbon-world,noosphere,godgame,godgame-after-verses}.png` + `manifest.json`. گزارشِ کامل: `field-reports/2026-06-04/FIELD-REPORT.md`.
+- پالت/کنتراست:
+  1. **neural-life:** نگاشتِ `رنگ=genome` تنوعِ خوبی دارد، اما «غذای سبز» از موجودِ سبزِ کمانرژی بصری تفکیکپذیر نیست (همرنگ/همشکل) → ریسکِ خطایِ خواندنِ صحنه `VERIFIED ✅`. توصیه: گلیفِ متفاوت برای غذا (مثلِ `+`/مربع) + legendِ رویبوم.
+  2. **carbon-world:** چشمنوازترین؛ پالتِ ویتاکر با نقشه میخواند `VERIFIED ✅`. اما چند سبزِ همخانواده (علفزار/ساوانا/بوتهزار/معتدل) کمتفکیکاند، و مرزِ آب/خشکی پلکانیِ خام است (بدونِ آنتیالیاس/باندِ ساحلی) `VERIFIED ✅`.
+  3. **noosphere:** بدترین figure/ground؛ موجودِ سبز روی زمینهٔ سبزِ زیستبوم محو میشود + تراکمِ ~۸۹۰ نقطه → تودهٔ نوفهای `VERIFIED ✅`. توصیه: محو/کمرنگکردنِ زمینه زیرِ موجودات + حاشیهٔ تیره دورِ هر نقطه + هیتمپ/مرزِ باور.
+  4. **godgame:** بهترین تمایزِ رنگِ نقش (مؤمنِ صورتی vs بیایمانِ آبی) `VERIFIED ✅`.
+- خوانایی/مقیاس (مشترک): HUDِ هر ۴ ریز و کمکنتراست (خاکستری روی تیره) `VERIFIED ✅`؛ هیچ legend/مقیاسِ رویبوم در neural-life/noosphere/godgame نیست `VERIFIED ✅`؛ carbon-world در بزرگنماییِ شبکهٔ خام بلوکی است `VERIFIED ✅`.
+- انیمیشن/VFX (مشترک — بزرگترین فرصت): هیچ زبانِ بصریِ «رویداد/کنش» نیست (نه هاله، نه موج، نه رد). کلیکِ آیه در godgame بیبازخوردِ بصری است → امضای «پژواکِ آیه/بسامدِ الهی» (MEM-0002/0003) هنوز پیاده نشده `VERIFIED ✅`.
+- توصیهٔ اولویتدارِ تیم: P1 سیستمِ تایپوگرافیِ HUDِ واحدِ خواناتر برای هر ۴؛ P1 افکتِ رویدادِ کوتاه (تولد/مرگ/خوردن/آیه)؛ P1 legend/مقیاس رویبوم؛ P2 باندِ آبِ کمعمقِ ساحلی در carbon-world.
+- برچسبِ حقیقت: VERIFIED ✅ (همه از پیکسل دیده شد) · ارجاع: FIELD-REPORT.md, MEM-graphics-vfx-0002/0003

diff --git a/ledgers/EXPERIENCES.md b/ledgers/EXPERIENCES.md
@@ -123,3 +123,12 @@
 - درس: هویتِ تازه آزادمان کرد یک **بازیِ خوب** بسازیم بیادعای نوآوری. الگوی هستهٔ مشترک حالا یک بازیِ تعاملیِ قطعی هم میدهد.
 - برچسبِ حقیقت: VERIFIED ✅ · ارجاع: ADR-0003, EXP-0012
 
+
+### EXP-0014 — گذرِ میدانیِ تصویری: پروتکل، overclaimِ خودم را گرفت — 2026-06-04
+- نتیجه: ✅ موفق (با دو درسِ مهم)
+- زمینه: حاکم خواست آدرسِ قابلِبازیِ بازی + یک تیمِ گرافیک/QA که اسکرین بگیرد و به تیمهای قبلی گزارش دهد.
+- چه شد: هارنسِ Playwright اسکرینشاتِ **واقعیِ** Chromium از هر ۴ نمونه گرفت (و بازیِ خدا را با کلیکِ واقعی بازی کرد)؛ sub-agentِ گرافیک تصاویر را بصری بررسی و به ۴ تیم گزارشِ دامنهای داد. سه پرچم: (۱) شواهدِ غیرفریمصادق، (۲) قاببندیِ «۹٪» متورم، (۳) تورمِ اقتصادِ نیایش.
+- درس ۱ (صداقت): حتی ابزارِ شاهدسازیِ خودم میتواند ناصادق باشد — drift بینِ اسکرینشات و خواندنِ آمار. راهحل: انجمادِ شبیهسازی پیش از ثبت (فریمصادق).
+- درس ۲ (بازی): هستهٔ حلقهٔ خدا نامتوازن است — **آیه بسیار ضعیف** (۶ آیه: ۷۷→۷۸ مؤمن، یعنی عملاً بیاثر) و **نیایش متورم** (~۴۴k تا tick 642 با هزینهٔ آیه فقط ۳۰۰). اولویتِ طراحیِ بعدی.
+- برچسبِ حقیقت: VERIFIED ✅ · ارجاع: FIELD-REPORT, RESOLUTION, AUDIT-0010, netecon/TEAM-LOG
+

diff --git a/memory/auditor/AUDIT-LOG.md b/memory/auditor/AUDIT-LOG.md
@@ -86,3 +86,9 @@
 - نوع: خودبازبینیِ رهبر.
 - یافته: هیچ ادعای نوآوری نشد (ژانرِ B&W صادقانه ذکر شد — سازگار با ADR-0003). قطعیتِ native==wasm با کنشهای تعاملی مستقیماً و بازتولیدپذیر تأیید شد. بدونِ overclaim.
 - حکم: PASS · اقدام: ندارد.
+
+### AUDIT-0010 — 2026-06-04 — گذرِ QAِ میدانی + بستنِ پرچمها
+- ناظر بر: field-reports/2026-06-04 (۴ نمونهٔ زنده) و ابزارِ field-snapshot.
+- نوع: گذرِ تیمِ گرافیک/QA (sub-agentِ مستقل، در محدوده ماند: فقط ۴ TEAM-LOG + FIELD-REPORT) + حلوفصلِ رهبر.
+- یافتهها (۳ پرچم): #۱ ناهمفریمیِ شواهد (manifest↔پیکسل) → ✅ ابزار فریمصادق شد (انجمادِ sim)، بازتولید و با چشم تأیید شد. #۲ قاببندیِ «۹٪» overclaim بود → پذیرفته؛ واقعیت: مؤمنانِ مطلق ۷۷→۷۸ (ثابت)، درصد بهخاطرِ رقیقشدگیِ جمعیت افت کرد. #۳ تورمِ نیایش → تأیید، برای گامِ بعد ثبت (EXP-0014).
+- حکم: PASS پس از اصلاح. پروتکل کار کرد — تیمِ قرمز overclaimِ خودِ رهبر را گرفت و رهبر بیدرنگ تصحیح کرد. ارجاع: FIELD-REPORT.md, RESOLUTION.md.
